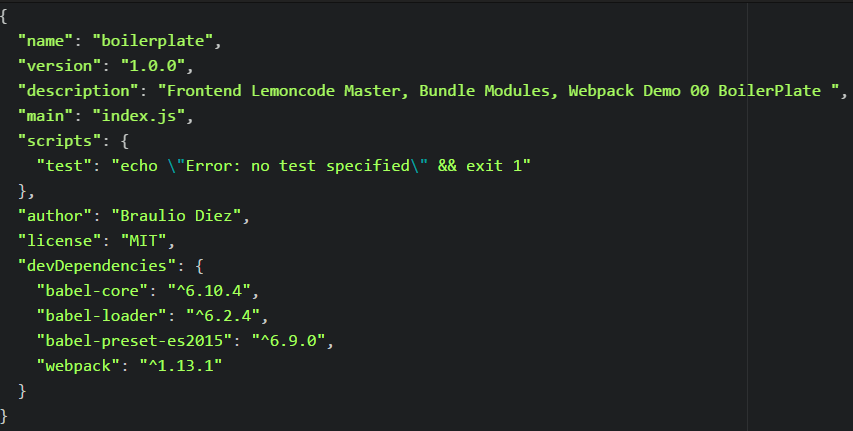
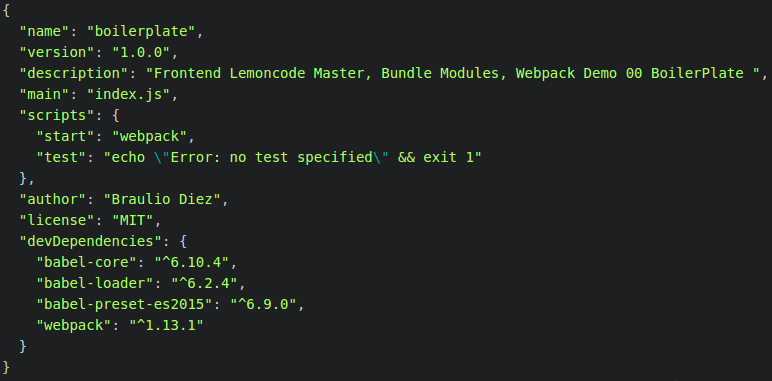
Fixed documentation on "00 Intro/00 BoilerPlate"
Review the README.md file.
Added Node.js link, start command to npm and others.

diff --git a/00 Intro/00 BoilerPlate/README.md b/00 Intro/00 BoilerPlate/README.md
@@ -4,10 +4,10 @@ In this sample we are going to setup a web project that can be easily managed
 by webpack.
 
 We will setup an initial npm project, give support to ES6, and install webpack.
-
-We will create a hellword.js sample.
+Then we will create a hellword.js sample.
 
 Summary steps:
+ - Prerequisites: Install Node.js
  - Intialize package.json (npm init)
  - Create a simple HTML file.
 
@@ -16,14 +16,16 @@ Summary steps:
 
 ## Prerequisites
 
-Prerequisites, you will need to have [nodejs](https://nodejs.org/en/) (v. 6.3.1) installed in your computer.
+Install [Node.js and npm](https://nodejs.org/en/) (v6.3.1) if they are not already installed on your computer.
+
+> Verify that you are running at least node v6.x.x and npm 3.x.x by running `node -v` and `npm -v` in a terminal/console window. Older versions may produce errors.
 
 ## steps
 
 - Navigate to the folder where you are going to create the empty project.
 
-- Execute npm init, you will be prompted to answer some information request
-about the project (once you have successfully fullfilled them a package.json
+- Execute `npm init`, you will be prompted to answer some information request
+about the project (once you have successfully fullfilled them a **package.json**
 file we will generated).
 
 ````
@@ -32,15 +34,18 @@ npm init
 
 ![npm init](../../99 Readme Resources/02 Webpack/Demo00_npminit.png "Demo00_npminit.png")
 
-- We will now install locally webpack, as a development dependency (the reason to install it locally and not globaly is to be easy to setup, e.g. can be launched on a clean machine without having to install anything globally but nodejs)
+- Install webpack locally, as a development dependency (the reason to install it locally and not globally is to be easy to setup, e.g. can be launched on a clean machine without having to install anything globally but nodejs).
 
 ````
 npm install webpack --save-dev
 ````
 
+- In order to launch webpack, modify the **package.json** file an add a property under the scripts object to run it. Now, our package.json file should looks something like:
+
+![package.json](../../99 Readme Resources/02 Webpack/Demo00_webpackinstall.png "Demo00_webpackinstall.png")
 
 - We will write es6 code but we need to transpile it to es5, in order to do
-that we will install babel-core plus babe-preset-es2015 and save it as a dev dependency on the package.json that has been generated by the npm init command we have created.
+that install **babel-core** plus **babe-preset-es2015** and save it as a dev dependency on the **package.json** file that has been previously generated.
 
 ````
 npm install babel-core --save-dev
@@ -54,14 +59,14 @@ webpack to be able to make use of babel-core transpiler.
 npm install babel-loader --save-dev
 ````
 
-Our package.json file should look something like:
+Our package.json file should looks something like:
 
-![package.json](../../99 Readme Resources/02 Webpack/Demo00_packagejson.png "Demo00_npminit.png")
+![package.json](../../99 Readme Resources/02 Webpack/Demo00_packagejson.png "Demo00_packagejson.png")
 
 
-- Now we are going to create a js file called students.js that will include ES6 syntax.
+- Now create a javascript file named **students.js** that will include ES6 syntax.
 
-```
+```javascript
 // Let's use some ES6 features
 const averageScore = "90";
 const messageToDisplay = `average score ${averageScore}`;
@@ -69,46 +74,54 @@ const messageToDisplay = `average score ${averageScore}`;
 document.write(messageToDisplay);
 ```
 
-- It's time to configure our webpack config, we will start by creating an empty skeleton, and indicate the js entry point.
+- It's time to configure webpack, create an empty skeleton on a file named **webpack.config.js**, and indicate the js entry point.
 
-```
+```javascript
 module.exports = {
-	entry: ["./students.js"],
-	output: {
-		filename: "bundle.js"
-	}
+  entry: ["./students.js"],
+  output: {
+    filename: "bundle.js"
+  }
 }
 ```
 
-- Now let's add support for es6, we will ask webpack to handle all js file that  finds in the project (excluding node_modules subfolder) and transpile them from es6 to es5 (using the babel-loader).
+- Now add support for es6, we will ask webpack to handle all js files under the project folder (excluding the node_modules subfolder) and transpile them from es6 to es5 (using the babel-loader).
 
-```
+```javascript
 module.exports = {
-	entry: ["./students.js"],
-	output: {
-		filename: "bundle.js"
-	},
+  entry: ["./students.js"],
+  output: {
+    filename: "bundle.js"
+  },
 
-	module: {
-		loaders: [
-			{
-				test: /\.es6$/,
-				exclude: /node_modules/,
-				loader: "babel-loader"
-			}
-		]
-	}
+  module: {
+    loaders: [
+      {
+        test: /\.js$/,
+        exclude: /node_modules/,
+        loader: "babel-loader",
+        query: {
+          presets: ['es2015']
+        }
+      }
+    ]
+  }
 }
 ```
 
+- Let's run webpack from the command line:
 
-- Let's run webpack from the command line, we can check that a file named "bundle.js" has been generated.
+```
+npm start
+```
 
 ![npm init](../../99 Readme Resources/02 Webpack/Demo00_webpackexec.png "Demo00_webpackexec.png")
 
-- if we open the bundle.js files we can check that it contains (amongst other boiler plate code) the transpiled to es5 version of students.js
+- We can check that a file named **bundle.js** has been generated.
 
-```
+- if we open the bundle.js file we can check that it contains (amongst other boiler plate code) the transpiled to es5 version of students.js
+
+```javascript
 /***/ function(module, exports) {
 
 	"use strict";
@@ -122,9 +135,9 @@ module.exports = {
 /***/ }
 ```
 
-- Let's create a simple HTML file, and include a script tag that will point to our generated bundle.js file. Now we can click on the html file and see our small piece of code up and running.
+- Create now a simple HTML file, and include a script tag that will point to our generated bundle.js file. Now we can click on the html file and see our small piece of code up and running.
 
-```
+```html
 <!DOCTYPE html>
 <html>
   <head>
@@ -137,6 +150,5 @@ module.exports = {
   </body>
 </html>
 ```
-
 
 ![Browser](../../99 Readme Resources/02 Webpack/Demo00_browser.png "Demo00_browser.png")
